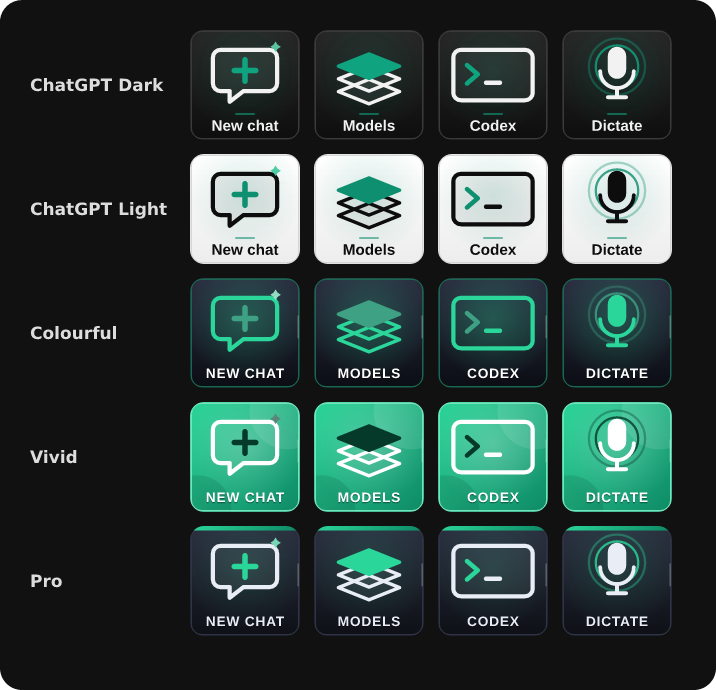
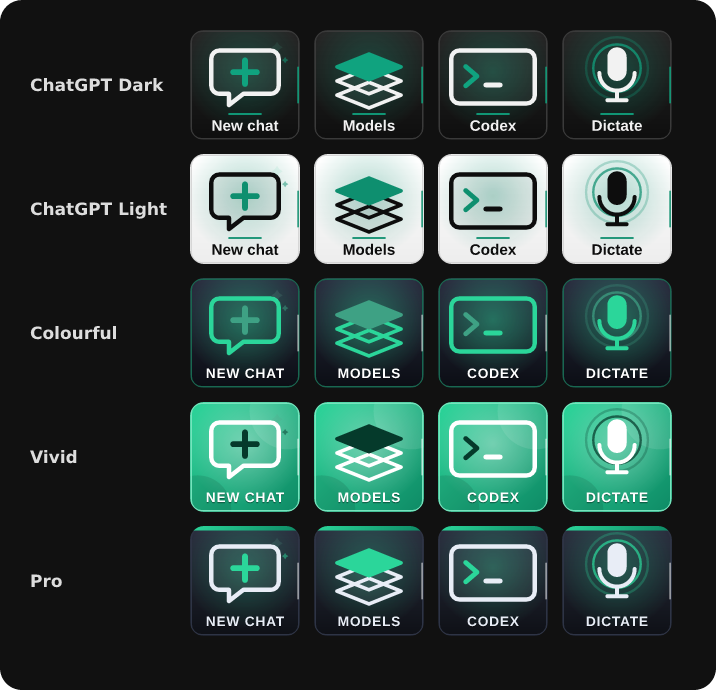
Livelier animation and shared fail-closed helper
Claude-Session: https://claude.ai/code/session_01KbLvN91oRRpS5XvghCrm8A

diff --git a/shared/brands/brand-keys.js b/shared/brands/brand-keys.js
@@ -286,6 +286,102 @@ Object.assign(ART, {
 		`<path d="M36 44l9 7-9 7" ${line(T.clay, 5)}/><path d="M54 51h${f(30 + 20 * wave(p))}" ${line(T.ink, 5)}/><path d="M36 72h56" ${line(T.muted, 4)}/>`,
 });
 
+// ── Developer icons (VS Code) ──
+Object.assign(ART, {
+	quickopen: (p) => `<path d="M38 20h34l22 22v52a8 8 0 0 1-8 8H38a8 8 0 0 1-8-8V28a8 8 0 0 1 8-8z" fill="${T.ink}" fill-opacity=".05" ${sline(T.ink, 5)}/><path d="M72 20v22h22" ${line(T.muted, 4)}/>` +
+		`<g transform="translate(${f(-4 * wave(p))} ${f(-3 * wave(p))})"><circle cx="90" cy="78" r="14" fill="${T.surface}" ${sline(T.clay, 5.5)}/><path d="M100 88l13 13" ${line(T.clay, 7)}/></g>`,
+	explorer: (p) => {
+		const o = (i) => f(0.45 + 0.55 * wave((p * 1.5 + i * 0.22) % 1));
+		return `<rect x="22" y="20" width="30" height="18" rx="4" fill="${T.clay}"/><path d="M36 38v52M36 56h20M36 90h20" ${line(T.muted, 4.5)}/>` +
+			`<rect x="60" y="46" width="58" height="20" rx="5" fill="${T.ink}" fill-opacity="${o(0)}"/><rect x="60" y="80" width="58" height="20" rx="5" fill="${T.ink}" fill-opacity="${o(1)}"/>`;
+	},
+	branch: (p) => {
+		const t = (p * 1.4) % 1;
+		return `<path d="M44 38v44M98 50c0 22-54 12-54 30" ${line(T.muted, 5.5)}/>` +
+			`<circle cx="${f(44 + (98 - 44) * 0)}" cy="${f(38 + 44 * t)}" r="4" fill="${T.clay}" opacity="${f(Math.sin(t * Math.PI))}"/>` +
+			`<circle cx="44" cy="28" r="10" fill="${T.surface}" ${sline(T.ink, 5.5)}/><circle cx="44" cy="92" r="10" fill="${T.surface}" ${sline(T.ink, 5.5)}/><circle cx="98" cy="40" r="10" fill="${T.clay}" ${sline(T.clay, 5.5)}/>`;
+	},
+	commit: (p) => `<path d="M16 56h34M94 56h34" ${line(T.muted, 5.5)}/><circle cx="72" cy="56" r="${f(19 + 2 * wave(p))}" fill="${T.surface}" ${sline(T.ink, 6)}/><circle cx="72" cy="56" r="${f(5 + 3 * wave(p))}" fill="${T.clay}"/>`,
+	push: (p) => `<path d="M38 24h68" ${line(T.clay, 6)}/><g transform="translate(0 ${f(-8 * wave(p))})"><path d="M72 94V44M52 62l20-20 20 20" ${line(T.ink, 7)}/></g>`,
+	pull: (p) => `<path d="M38 92h68" ${line(T.clay, 6)}/><g transform="translate(0 ${f(8 * wave(p))})"><path d="M72 22v50M52 54l20 20 20-20" ${line(T.ink, 7)}/></g>`,
+	terminal: (p) => {
+		const on = (p * 4) % 1 < 0.55;
+		return `<rect x="18" y="24" width="108" height="68" rx="9" fill="${T.ink}" fill-opacity=".05" ${sline(T.ink, 5)}/><path d="M18 40h108" ${line(T.faint, 4)}/>` +
+			`<path d="M36 56l13 10-13 10" ${line(T.clay, 6)}/><rect x="58" y="72" width="26" height="6" rx="3" fill="${T.ink}" opacity="${on ? 1 : 0.15}"/>`;
+	},
+	newterm: (p) => `<rect x="14" y="32" width="92" height="64" rx="9" fill="${T.ink}" fill-opacity=".05" ${sline(T.ink, 5)}/><path d="M30 54l12 10-12 10" ${line(T.clay, 5.5)}/><path d="M50 80h22" ${line(T.ink, 5.5)}/>` +
+		`<g transform="translate(108 34) scale(${f(1 + 0.12 * wave(p))}) translate(-108 -34)"><circle cx="108" cy="34" r="18" fill="${T.clay}"/><path d="M108 25v18M99 34h18" ${line(T.cut, 5)}/></g>`,
+	play: (p) => `<circle cx="72" cy="56" r="${f(36 + 4 * wave(p))}" fill="none" stroke="${T.clay}" stroke-width="3" opacity="${f(0.5 - 0.4 * wave(p))}"/>` +
+		`<path d="M58 34L96 56 58 78z" fill="${T.clay}" ${sline(T.clay, 6)}/>`,
+	bug: (p) => {
+		// Modern "run and debug": outlined play shape with a breakpoint badge that pulses and a bug glyph inside it.
+		const r = 15 + 2.5 * wave(p);
+		return `<path d="M36 26c0-5 5.5-8 9.8-5.5l48 29.5c4 2.5 4 8.5 0 11L45.8 90.5C41.5 93 36 90 36 85z" fill="${T.ink}" fill-opacity=".06" ${sline(T.ink, 5.5)}/>` +
+			`<circle cx="98" cy="80" r="${f(r + 6)}" fill="${T.clay}" opacity="${f(0.18 * (1 - wave(p)) + 0.05)}"/>` +
+			`<circle cx="98" cy="80" r="${f(r)}" fill="${T.clay}"/>` +
+			`<ellipse cx="98" cy="83" rx="5.5" ry="7" fill="${T.cut}"/><circle cx="98" cy="73.5" r="3.4" fill="${T.cut}"/>` +
+			`<path d="M91 80h-5M105 80h5M91.5 87l-4 3M104.5 87l4 3M92 75l-3-3M104 75l3-3" ${line(T.cut, 2.2)}/>`;
+	},
+	format: (p) => {
+		const x = [64, 98, 54, 80];
+		return x.map((w, i) => `<path d="M22 ${32 + i * 18}h${f(w - (i % 2 ? 10 : 0) * wave(p))}" ${line(i === 1 ? T.clay : T.ink, 5.5)}/>`).join("") +
+			sparkle(110, 72, 12, T.clay, 0.5 + 0.5 * wave(p));
+	},
+	save: (p) => `<path d="M28 20h66l22 22v52a8 8 0 0 1-8 8H36a8 8 0 0 1-8-8z" fill="${T.ink}" fill-opacity=".05" ${sline(T.ink, 5)}/>` +
+		`<path d="M44 20v24h38V20" ${line(T.ink, 5)}/><rect x="42" y="64" width="60" height="32" rx="5" fill="${T.clay}" opacity="${f(0.55 + 0.45 * wave(p))}"/>`,
+	split: (p) => {
+		const x = 72 + 6 * Math.sin(p * TAU);
+		return `<rect x="18" y="24" width="108" height="68" rx="9" fill="${T.ink}" fill-opacity=".05" ${sline(T.ink, 5)}/><path d="M${f(x)} 26v64" ${line(T.clay, 5)}/>` +
+			`<path d="M30 44h${f(x - 42)}M30 58h${f(x - 52)}M${f(x + 12)} 44h${f(114 - x - 12)}M${f(x + 12)} 58h${f(114 - x - 22)}" ${line(T.muted, 4)}/>`;
+	},
+	comment: (p) => `<path d="M30 40h40M30 56h52M30 72h34" ${line(T.muted, 5)}/>` +
+		`<g opacity="${f(0.5 + 0.5 * wave(p))}"><path d="M86 84l12-44M104 84l12-44" ${line(T.clay, 7)}/></g>`,
+	definition: (p) => `<circle cx="72" cy="56" r="34" fill="none" ${sline(T.muted, 4.5)}/><circle cx="72" cy="56" r="${f(18 + 3 * wave(p))}" fill="none" ${sline(T.ink, 5.5)}/><circle cx="72" cy="56" r="7" fill="${T.clay}"/>` +
+		`<path d="M72 12v14M72 86v14M28 56h14M102 56h14" ${line(T.ink, 5)}/>`,
+	rename: (p) => {
+		const n = 1 + Math.floor(p * 4) % 4;
+		return `<rect x="22" y="38" width="100" height="36" rx="7" fill="${T.ink}" fill-opacity=".05" ${sline(T.ink, 4.5)}/>` +
+			[0, 1, 2, 3].slice(0, n).map((i) => `<rect x="${34 + i * 16}" y="50" width="11" height="12" rx="2" fill="${T.muted}"/>`).join("") +
+			`<rect x="${34 + n * 16}" y="46" width="4" height="20" rx="2" fill="${T.clay}"/><path d="M92 86h18" ${line(T.clay, 4)}/>`;
+	},
+	problems: (p) => `<path d="M72 22L120 98H24z" fill="${T.clay}" fill-opacity="${f(0.12 + 0.18 * wave(p))}" ${sline(T.clay, 6.5)}/><path d="M72 48v24" ${line(T.ink, 7)}/><circle cx="72" cy="85" r="4.5" fill="${T.ink}"/>`,
+	zen: (p) => `<path d="M86 20A40 40 0 1 0 118 82 32 32 0 0 1 86 20z" fill="${T.ink}" fill-opacity=".06" ${sline(T.ink, 5.5)}/>` + sparkle(104, 36, 6, T.clay, wave(p)) + sparkle(116, 58, 4, T.clayLight, wave((p + 0.5) % 1)),
+	closeeditor: (p) => {
+		const s = 1 - 0.18 * wave(p);
+		return `<rect x="18" y="24" width="108" height="68" rx="9" fill="${T.ink}" fill-opacity=".05" ${sline(T.ink, 5)}/><path d="M18 40h108" ${line(T.faint, 4)}/>` +
+			`<g transform="translate(72 66) scale(${f(s)}) translate(-72 -66)"><path d="M60 54l24 24M84 54L60 78" ${line(T.clay, 6.5)}/></g>`;
+	},
+	command: (p) => ART.commands(p),
+	project: (p) => `<path d="M20 38a8 8 0 0 1 8-8h22l10 10h56a8 8 0 0 1 8 8v42a8 8 0 0 1-8 8H28a8 8 0 0 1-8-8z" fill="${T.ink}" fill-opacity=".05" ${sline(T.ink, 5)}/>` +
+		`<path d="M60 56l-12 12 12 12M84 56l12 12-12 12" ${line(T.clay, 6)}/>` + `<path d="M76 54l-8 28" ${line(T.ink, 4)} opacity="${f(0.4 + 0.6 * wave(p))}"/>`,
+	copilot: (p) => {
+		// Modern AI chat: soft filled bubble, sparkle, and "typing" dots that ripple.
+		const dots = [0, 1, 2].map((i) => { const q = wave((p * 2 + i * 0.15) % 1); return `<circle cx="${60 + i * 12}" cy="${f(70 - 4 * q)}" r="3.6" fill="${T.ink}" opacity="${f(0.4 + 0.6 * q)}"/>`; }).join("");
+		return `<path d="M44 22h56a16 16 0 0 1 16 16v30a16 16 0 0 1-16 16H72L54 98V84H44a16 16 0 0 1-16-16V38a16 16 0 0 1 16-16z" fill="${T.clay}" fill-opacity=".16" ${sline(T.clay, 5)}/>` +
+			sparkle(72, 46, 12 + 2 * wave(p), T.clay, 1) + sparkle(93, 33, 5, T.clayLight, wave((p + 0.5) % 1)) + dots;
+	},
+	quickfix: (p) => `<path d="M72 22a24 24 0 0 0-14 43v9h28v-9a24 24 0 0 0-14-43z" fill="${T.clay}" fill-opacity="${f(0.3 + 0.6 * wave(p))}" ${sline(T.clay, 5)}/>` +
+		`<path d="M60 84h24M64 94h16" ${line(T.ink, 5)}/>` + [0, 1, 2].map((i) => { const a = -150 + i * 60; return `<path d="M${f(72 + 32 * Math.cos(a * Math.PI / 180))} ${f(46 + 32 * Math.sin(a * Math.PI / 180))}L${f(72 + 40 * Math.cos(a * Math.PI / 180))} ${f(46 + 40 * Math.sin(a * Math.PI / 180))}" ${line(T.clay, 4)} opacity="${f(wave(p))}"/>`; }).join(""),
+	panel: (p) => {
+		const h = 18 + 12 * wave(p);
+		return `<rect x="18" y="24" width="108" height="68" rx="9" fill="${T.ink}" fill-opacity=".05" ${sline(T.ink, 5)}/>` +
+			`<path d="M20 ${f(90 - h)}h104v${f(h - 8)}a8 8 0 0 1-8 8H28a8 8 0 0 1-8-8z" fill="${T.clay}" opacity=".85"/>`;
+	},
+	extensions: (p) => {
+		const d = 6 * wave(p);
+		return `<rect x="26" y="50" width="30" height="30" rx="4" fill="none" ${sline(T.ink, 5)}/><rect x="56" y="50" width="30" height="30" rx="4" fill="none" ${sline(T.ink, 5)}/><rect x="26" y="80" width="30" height="16" rx="4" fill="none" ${sline(T.ink, 5)}/>` +
+			`<rect x="${f(72 + d)}" y="${f(24 - d)}" width="28" height="28" rx="4" fill="${T.clay}" transform="rotate(${f(-8 * wave(p))} ${f(86 + d)} ${f(38 - d)})"/>`;
+	},
+});
+
+// ── Send ──
+ART.send = (p) => {
+	const t = (p * 1.25) % 1, y = 56 - 14 * Math.min(1, t * 1.6), o = t < 0.62 ? 1 : Math.max(0, 1 - (t - 0.62) * 3.5);
+	return `<rect x="34" y="18" width="76" height="76" rx="22" fill="${T.clay}"/>` +
+		`<g transform="translate(0 ${f(y - 56)})" opacity="${f(o)}"><path d="M72 76V38M54 54l18-18 18 18" ${line(T.cut, 7.5)}/></g>` +
+		`<path d="M72 ${f(84 - 4 * wave(p))}h0" ${line(T.cut, 4)} opacity=".5"/>`;
+};
+
 // ── Styles ──
 const hex = (h) => { const n = parseInt(h.slice(1), 16); return [(n >> 16) & 255, (n >> 8) & 255, n & 255]; };
 const mix = (a, b, t) => "#" + hex(a).map((v, i) => Math.round(v + (hex(b)[i] - v) * t).toString(16).padStart(2, "0")).join("");
@@ -295,6 +391,11 @@ export const BRANDS = {
 		app: { ...CLAUDE_TOKENS },
 		light: { bgTop: "#FBF9F4", bgBottom: "#ECE7DA", edge: "#D8D0BF", ink: "#3A362E", muted: "#A0988A", faint: "#DED7C8", clay: "#C96442", clayLight: "#E38A64", surface: "#FFFFFF", cut: "#FFFFFF" },
 		colours: ["#F0A07C", "#C8582F", "#5C2414"],
+	},
+	vscode: {
+		app: { bgTop: "#252526", bgBottom: "#161616", edge: "#333333", ink: "#E6E6E6", muted: "#8A8A8A", faint: "#3C3C3C", clay: "#3794FF", clayLight: "#7FB9FF", surface: "#1F1F1F", cut: "#161616" },
+		light: { bgTop: "#FFFFFF", bgBottom: "#EEF2F7", edge: "#D4D9E0", ink: "#1F2328", muted: "#8C959F", faint: "#DDE3EA", clay: "#005FB8", clayLight: "#3B8EEA", surface: "#FFFFFF", cut: "#FFFFFF" },
+		colours: ["#4DA3FF", "#0B5CAD", "#06315E"],
 	},
 	chatgpt: {
 		app: { bgTop: "#262626", bgBottom: "#0E0E0E", edge: "#3A3A3A", ink: "#F2F2F2", muted: "#8C8C8C", faint: "#3C3C3C", clay: "#10A37F", clayLight: "#5FD3AE", surface: "#1C1C1C", cut: "#0E0E0E" },
@@ -330,8 +431,10 @@ export function brandKeySvg({ brand = "claude", glyph, label = "", phase = 0, se
 	const serif = pal.font === "app"; // native looks: title-case Segoe UI Bold with the accent rule
 	const raw = String(label).slice(0, 14);
 	const text = esc(serif ? raw : raw.toUpperCase());
-	const fs = serif ? (raw.length > 11 ? 15.5 : raw.length > 8 ? 17.5 : 20) : Math.min(18, Math.floor(130 / Math.max(1, raw.length * 0.64)));
-	const glowOp = (style === "vivid" ? 0.16 : style === "neon" ? 0.22 : 0.10) + 0.06 * wave(p);
+	const fs = serif ? (raw.length > 11 ? 16.5 : raw.length > 8 ? 18.5 : 21) : Math.min(19, Math.floor(130 / Math.max(1, raw.length * 0.64)) + 1);
+	// Livelier motion: icon details run two loops per 6 s cycle, the icon bobs, the glow breathes and an accent light travels round the frame.
+	const p2 = (p * 2) % 1;
+	const glowOp = (style === "vivid" ? 0.14 : style === "neon" ? 0.2 : 0.1) + (animate ? 0.22 * wave(p2) : 0);
 	let body = `<defs><linearGradient id="${u}b" x1="0" y1="0" x2="${style === "vivid" ? 1 : 0}" y2="1"><stop offset="0" stop-color="${pal.bgTop}"/><stop offset="1" stop-color="${pal.bgBottom}"/></linearGradient>` +
 		`<radialGradient id="${u}g" cx=".5" cy=".38" r=".55"><stop offset="0" stop-color="${pal.glow}" stop-opacity="${f(glowOp)}"/><stop offset="1" stop-color="${pal.glow}" stop-opacity="0"/></radialGradient>` +
 		(pal.bar ? `<linearGradient id="${u}r" x1="0" y1="0" x2="1" y2="0"><stop offset="0" stop-color="${pal.bar[0]}"/><stop offset="1" stop-color="${pal.bar[1]}"/></linearGradient>` : "") + `</defs>` +
@@ -340,13 +443,14 @@ export function brandKeySvg({ brand = "claude", glyph, label = "", phase = 0, se
 	body += `<rect x="1.5" y="1.5" width="141" height="141" rx="14" fill="none" stroke="${pal.edge}" stroke-width="2"/>`;
 	if (pal.bar) body += `<rect width="144" height="6" fill="url(#${u}r)"/>`;
 	// Travelling sheen on the frame for the colour looks.
-	if (animate && (style === "neon" || style === "vivid" || style === "pro")) body += `<rect x="2.5" y="2.5" width="139" height="139" rx="13" fill="none" stroke="#fff" stroke-width="1.6" stroke-opacity=".28" stroke-dasharray="30 526" stroke-dashoffset="${f(-p * 556)}"/>`;
-	body += `<g data-glyph="${esc(glyph)}">${draw(p)}</g>`;
+	if (animate) body += `<rect x="2.5" y="2.5" width="139" height="139" rx="13" fill="none" stroke="${style === "app" || style === "light" ? pal.clay : "#fff"}" stroke-width="2.4" stroke-opacity="${style === "app" || style === "light" ? 0.85 : 0.5}" stroke-linecap="round" stroke-dasharray="46 510" stroke-dashoffset="${f(-p * 556)}"/>`;
+	const bob = animate ? -4 * Math.sin(p2 * TAU) : 0, grow = animate ? 1 + 0.05 * wave(p2) : 1;
+	body += `<g data-glyph="${esc(glyph)}" transform="translate(72 ${f(56 + bob)}) scale(${f(grow)}) translate(-72 -56)">${draw(p2)}</g>`;
 	if (setup) body += `<rect x="46" y="92" width="52" height="15" rx="7.5" fill="${pal.clay}"/><text x="72" y="103" text-anchor="middle" font-family="Segoe UI, Arial" font-size="9.5" font-weight="700" letter-spacing="1" fill="${pal.cut}">SETUP</text>`;
-	if (text) body += (serif ? `<path d="M60 110h24" stroke="${pal.clay}" stroke-width="2" stroke-linecap="round" opacity=".75"/>` +
-		`<text x="72" y="132" text-anchor="middle" font-family="${LABEL_FONT}" font-size="${fs}" font-weight="700" fill="${pal.ink}">${text}</text>` :
+	if (text) body += (serif ? `<path d="M${f(72 - (10 + 12 * (animate ? wave(p2) : 0.5)))} 110h${f(2 * (10 + 12 * (animate ? wave(p2) : 0.5)))}" stroke="${pal.clay}" stroke-width="2.5" stroke-linecap="round" opacity=".9"/>` +
+		`<text x="72" y="132" text-anchor="middle" font-family="${LABEL_FONT}" font-size="${fs}" font-weight="800" fill="${pal.ink}" stroke="${pal.ink}" stroke-width=".55" stroke-linejoin="round">${text}</text>` :
 		`<text x="72" y="132.5" text-anchor="middle" font-family="Segoe UI, Arial, Helvetica, sans-serif" font-size="${fs}" font-weight="800" letter-spacing="${raw.length > 9 ? 0.3 : 1}" fill="#000" opacity=".35">${text}</text>` +
-		`<text x="72" y="131" text-anchor="middle" font-family="Segoe UI, Arial, Helvetica, sans-serif" font-size="${fs}" font-weight="800" letter-spacing="${raw.length > 9 ? 0.3 : 1}" fill="${style === "neon" ? "#ffffff" : pal.ink}">${text}</text>`);
+		`<text x="72" y="131" text-anchor="middle" font-family="Segoe UI, Arial, Helvetica, sans-serif" font-size="${fs}" font-weight="800" letter-spacing="${raw.length > 9 ? 0.3 : 1}" fill="${style === "neon" ? "#ffffff" : pal.ink}" stroke="${style === "neon" ? "#ffffff" : pal.ink}" stroke-width=".5" stroke-linejoin="round">${text}</text>`);
 	Object.assign(T, CLAUDE_TOKENS);
 	return `<svg xmlns="http://www.w3.org/2000/svg" width="144" height="144" viewBox="0 0 144 144"><g data-app-design="${esc(brand)}" data-style="${style}">${body}</g></svg>`;
 }

diff --git a/shared/icons.js b/shared/icons.js
@@ -49,6 +49,7 @@ export const THEMES = {
 	// Brand colours (defaults for the app keys in Colourful, Vivid and Pro).
 	clay: ["#F0A07C", "#C8582F", "#5C2414"],
 	chatgpt: ["#2BD69A", "#0E8A65", "#053A2B"],
+	vscode: ["#4DA3FF", "#0B5CAD", "#06315E"],
 };
 
 /** Brighter glyph colours for themes that are too dark to read on the dark "neon" tile. */
@@ -547,33 +548,39 @@ export const PRESET_ICONS = {
 	back: { glyph: "back", theme: "gold", label: "Back" },
 	monitorcontrol: { glyph: "monitorOn", theme: "graphite", label: "Monitor Control" },
 	// VS Code plugin
-	"vsc-back": { glyph: "vback", theme: "slate", label: "Back" },
-	"vsc-palette": { glyph: "vpalette", theme: "azure", label: "Commands" },
-	"vsc-quickopen": { glyph: "vquickopen", theme: "azure", label: "Go to File" },
-	"vsc-search": { glyph: "vsearch", theme: "azure", label: "Search" },
-	"vsc-terminal": { glyph: "vterminal", theme: "cyan", label: "Terminal" },
-	"vsc-explorer": { glyph: "vtree", theme: "azure", label: "Explorer" },
-	"vsc-scm": { glyph: "vbranch", theme: "amber", label: "Git" },
-	"vsc-commit": { glyph: "vcommit", theme: "amber", label: "Commit" },
-	"vsc-push": { glyph: "vpush", theme: "amber", label: "Push" },
-	"vsc-pull": { glyph: "vpull", theme: "amber", label: "Pull" },
-	"vsc-newterm": { glyph: "vnewterm", theme: "cyan", label: "New Term" },
-	"vsc-run": { glyph: "vplay", theme: "emerald", label: "Run" },
-	"vsc-debug": { glyph: "vbug", theme: "crimson", label: "Debug" },
-	"vsc-stop": { glyph: "vstop", theme: "crimson", label: "Stop" },
-	"vsc-format": { glyph: "vformat", theme: "iris", label: "Format" },
-	"vsc-saveall": { glyph: "vsave", theme: "azure", label: "Save All" },
-	"vsc-sidebar": { glyph: "vsidebar", theme: "slate", label: "Sidebar" },
-	"vsc-split": { glyph: "vsplit", theme: "slate", label: "Split" },
-	"vsc-comment": { glyph: "vcomment", theme: "iris", label: "Comment" },
-	"vsc-definition": { glyph: "vtarget", theme: "cyan", label: "Definition" },
-	"vsc-rename": { glyph: "vpencil", theme: "amber", label: "Rename" },
-	"vsc-problems": { glyph: "vwarning", theme: "amber", label: "Problems" },
-	"vsc-zen": { glyph: "vmoon", theme: "iris", label: "Zen" },
-	"vsc-close": { glyph: "vclose", theme: "slate", label: "Close" },
-	"vsc-shortcut": { glyph: "vkeyboard", theme: "cyan", label: "Shortcut" },
-	"vsc-command": { glyph: "vpalette", theme: "cyan", label: "Command" },
-	"vsc-project": { glyph: "vproject", theme: "azure", label: "Project" },
+	"vsc-back": { glyph: "back", theme: "vscode", label: "Back" },
+	"vsc-palette": { glyph: "commands", theme: "vscode", label: "Commands" },
+	"vsc-quickopen": { glyph: "quickopen", theme: "vscode", label: "Go to File" },
+	"vsc-search": { glyph: "search", theme: "vscode", label: "Search" },
+	"vsc-terminal": { glyph: "terminal", theme: "vscode", label: "Terminal" },
+	"vsc-explorer": { glyph: "explorer", theme: "vscode", label: "Explorer" },
+	"vsc-scm": { glyph: "branch", theme: "vscode", label: "Git" },
+	"vsc-commit": { glyph: "commit", theme: "vscode", label: "Commit" },
+	"vsc-push": { glyph: "push", theme: "vscode", label: "Push" },
+	"vsc-pull": { glyph: "pull", theme: "vscode", label: "Pull" },
+	"vsc-newterm": { glyph: "newterm", theme: "vscode", label: "New Term" },
+	"vsc-run": { glyph: "play", theme: "vscode", label: "Run" },
+	"vsc-debug": { glyph: "bug", theme: "vscode", label: "Debug" },
+	"vsc-stop": { glyph: "stop", theme: "vscode", label: "Stop" },
+	"vsc-format": { glyph: "format", theme: "vscode", label: "Format" },
+	"vsc-saveall": { glyph: "save", theme: "vscode", label: "Save All" },
+	"vsc-sidebar": { glyph: "sidebar", theme: "vscode", label: "Sidebar" },
+	"vsc-split": { glyph: "split", theme: "vscode", label: "Split" },
+	"vsc-comment": { glyph: "comment", theme: "vscode", label: "Comment" },
+	"vsc-definition": { glyph: "definition", theme: "vscode", label: "Definition" },
+	"vsc-rename": { glyph: "rename", theme: "vscode", label: "Rename" },
+	"vsc-problems": { glyph: "problems", theme: "vscode", label: "Problems" },
+	"vsc-zen": { glyph: "zen", theme: "vscode", label: "Zen" },
+	"vsc-close": { glyph: "closeeditor", theme: "vscode", label: "Close" },
+	"vsc-shortcut": { glyph: "shortcut", theme: "vscode", label: "Shortcut" },
+	"vsc-command": { glyph: "command", theme: "vscode", label: "Command" },
+	"vsc-project": { glyph: "project", theme: "vscode", label: "Project" },
+	"vsc-copilot": { glyph: "copilot", theme: "vscode", label: "Copilot Chat" },
+	"vsc-quickfix": { glyph: "quickfix", theme: "vscode", label: "Quick Fix" },
+	"vsc-panel": { glyph: "panel", theme: "vscode", label: "Panel" },
+	"vsc-extensions": { glyph: "extensions", theme: "vscode", label: "Extensions" },
+	"vsc-more": { glyph: "more", theme: "vscode", label: "More" },
+	"vsc-main": { glyph: "main", theme: "vscode", label: "Main" },
 	copy: { glyph: "copy", theme: "indigo", label: "Copy" },
 	paste: { glyph: "paste", theme: "fire", label: "Paste" },
 };

diff --git a/shared/host-script.ts b/shared/host-script.ts
@@ -754,19 +754,26 @@ while ($true) {
 			}
 			'sendto' {
 				# a[0] = process names ("Code|Code - Insiders"), a[1] = JSON steps [{k:"^+p"},{w:200},{t:"Git: Push"}]
+				# Fails closed: nothing is typed unless the named app is really in front, and it stops if focus moves away.
 				Ensure-Native
-				if ($a[0] -and -not [DailyOpsWin]::Activate($a[0])) { $status = 'miss'; $msg = 'not running: ' + $a[0]; break }
+				$target = 0
+				if ($a[0]) {
+					if (-not [DailyOpsWin]::Activate($a[0])) { $status = 'miss'; $msg = 'Open VS Code first.'; break }
+					Start-Sleep -Milliseconds 90
+					$target = [DailyOpsWin]::ForegroundPid()
+					$fgName = ''; try { $fgName = (Get-Process -Id $target -ErrorAction Stop).ProcessName } catch { }
+					if (@($a[0].Split('|')) -notcontains $fgName) { $status = 'miss'; $msg = 'VS Code did not come to the front. Nothing was sent.'; break }
+				}
 				$sh = Shell
-				$first = $true
+				# Windows PowerShell 5.1 returns a JSON array as one object from a pipeline; assign first so it enumerates.
 				$steps = ConvertFrom-Json $a[1]
 				foreach ($st in @($steps)) {
-					if ($first -and $a[0]) { Start-Sleep -Milliseconds 90 }
-					$first = $false
-					if ($st.w) { Start-Sleep -Milliseconds ([int]$st.w) }
+					if ($target -and [DailyOpsWin]::ForegroundPid() -ne $target) { $status = 'miss'; $msg = 'VS Code lost focus. Nothing more was sent.'; break }
+					if ($st.w) { Start-Sleep -Milliseconds ([Math]::Min(2000, [int]$st.w)) }
 					if ($st.k) { $sh.SendKeys([string]$st.k) }
 					if ($st.t) { $sh.SendKeys((SK-Escape ([string]$st.t))) }
 				}
-				$msg = 'sent'
+				if ($status -eq 'ok') { $msg = 'sent' }
 			}
 			'appkeys' {
 				# a[0] = process names ("Claude"), a[1] = executable path pattern, a[2] = JSON steps [{k:"^+o"},{w:120},{win:72}]

diff --git a/README.md b/README.md
@@ -1,6 +1,6 @@
 # ChatGPT Controls
 
-Unofficial Elgato Stream Deck plugin for the **ChatGPT desktop app on Windows** (Chat, Work and Codex). Version 1.2.0.0.
+Unofficial Elgato Stream Deck plugin for the **ChatGPT desktop app on Windows** (Chat, Work and Codex). Version 1.2.1.0.
 
 Keys use the app's own documented keyboard shortcuts and `codex://` app links, so they act **inside the desktop app**. Every icon is animated.
 
@@ -8,7 +8,7 @@ Keys use the app's own documented keyboard shortcuts and `codex://` app links, s
 
 ## Install in three steps
 
-1. Download **ChatGPTControls-Installer-1.2.0.0.zip** from [Releases](https://github.com/nikhilgs817/streamdeck_chatgpt/releases/latest).
+1. Download **ChatGPTControls-Installer-1.2.1.0.zip** from [Releases](https://github.com/nikhilgs817/streamdeck_chatgpt/releases/latest).
 2. Right-click the ZIP, choose **Extract All**, and open the extracted folder.
 3. Double-click **Install-ChatGPTControls.cmd**. Wait for the success message; Stream Deck restarts automatically.
 
@@ -16,11 +16,11 @@ No Git, Node.js or build commands are needed. Windows Daily Toolkit is included 
 
 ## The keys
 
-**Page 1 (ChatGPT):** Back · New chat · Temporary · Search · Usage / Models · Projects · Sidebar · Previous · Next / Chat · Work · Codex · Dictate · More
+**Page 1 (ChatGPT):** Back · New chat · Temporary · Search · Usage / Models · Projects · Sidebar · Previous · Next / Chat · Codex · Dictate · Send · More
 
-**Page 2 (More):** Main · Settings · Shortcuts · Find · Quick chat / Archive · Pin · Rename · Copy link · Skills / Scheduled · Full view · Zoom in · Zoom out · Reset zoom
+**Page 2 (More):** Main · Settings · Shortcuts · Find · Work / Archive · Pin · Rename · Copy link · Skills / Scheduled · Full view · Zoom in · Zoom out · Reset zoom
 
-Also in the action list: Go back, Go forward, Copy, Paste, Undo, Redo, Full screen, Focus app and Custom key.
+Also in the action list: Quick chat, Go back, Go forward, Copy, Paste, Undo, Redo, Full screen, Focus app and Custom key.
 
 | Key | What it does | How |
 |---|---|---|
@@ -35,6 +35,7 @@ Also in the action list: Go back, Go forward, Copy, Paste, Undo, Redo, Full scre
 | Archive, Pin, Rename, Copy link | Current chat | Ctrl+Shift+A, Ctrl+Alt+P, Ctrl+Alt+R, Ctrl+Alt+L |
 | Full view, Find, Shortcuts | | Ctrl+Shift+F, Ctrl+F, Ctrl+/ |
 | Zoom in/out, Reset zoom | Text size | Ctrl+=, Ctrl+-, Ctrl+0 |
+| Send | Send what you typed | The app's Send button |
 | Dictate | Windows voice typing into the message box | Win+H |
 | Custom key | Any shortcut you type, e.g. `Ctrl+Alt+1` or `Win+H` | |
 

diff --git a/docs/INSTALL.md b/docs/INSTALL.md
@@ -2,10 +2,10 @@
 
 ## Recommended: double-click installer
 
-1. Download **ChatGPTControls-Installer-1.2.0.0.zip** from [GitHub Releases](https://github.com/nikhilgs817/streamdeck_chatgpt/releases/latest).
+1. Download **ChatGPTControls-Installer-1.2.1.0.zip** from [GitHub Releases](https://github.com/nikhilgs817/streamdeck_chatgpt/releases/latest).
 2. Right-click the ZIP and choose **Extract All**. Open the extracted **ChatGPTControls-Installer** folder.
 3. Double-click **Install-ChatGPTControls.cmd**. Keep the other files in that folder.
-4. Wait for **Installed ChatGPT Controls 1.2.0.0**. Stream Deck closes briefly and opens again automatically.
+4. Wait for **Installed ChatGPT Controls 1.2.1.0**. Stream Deck closes briefly and opens again automatically.
 5. In Stream Deck, find **ChatGPT Controls** in the action list. On a compatible 15-key deck, you can also choose **ChatGPT** from the profile dropdown for its ready-made app layout.
 
 No Git, Node.js, npm, developer mode or build commands are needed. Run the installer as your normal Windows user. If Stream Deck is missing or too old, the script asks first, then can install/update the official **Elgato.StreamDeck** package through Windows Package Manager; Windows may request administrator approval for that prerequisite. If Windows Package Manager is unavailable, install Stream Deck from [Elgato Downloads](https://www.elgato.com/downloads), then run this installer again.

diff --git a/CHANGELOG.md b/CHANGELOG.md
@@ -1,5 +1,12 @@
 # Changelog
 
+## 1.2.1
+
+- Bigger, bolder key labels (+1 pt, extra-bold Segoe UI).
+- New **Send** key: presses the app's own Send button (animated arrow icon). It is on page 1.
+- Livelier animation: icon details run two loops per cycle, the icon gently rises and settles, the glow breathes and an accent light travels round each key.
+- Background helper: VS Code-style fail-closed focus checks are now shared by every command.
+
 ## 1.2.0
 
 - **Built on the app's official controls.** Keys use the ChatGPT desktop app's documented shortcuts and `codex://` app links, so New chat, Settings, Skills and Scheduled open inside the app (starting it if needed).
